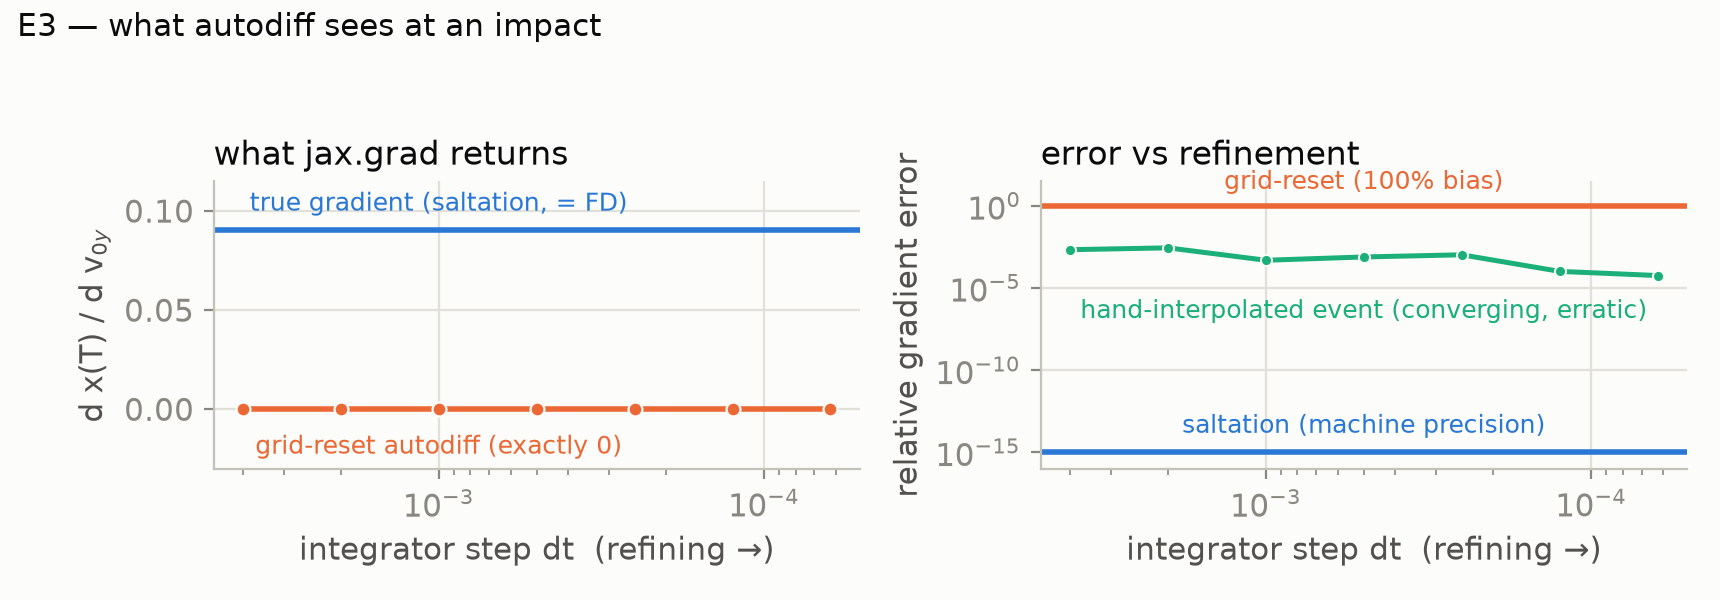
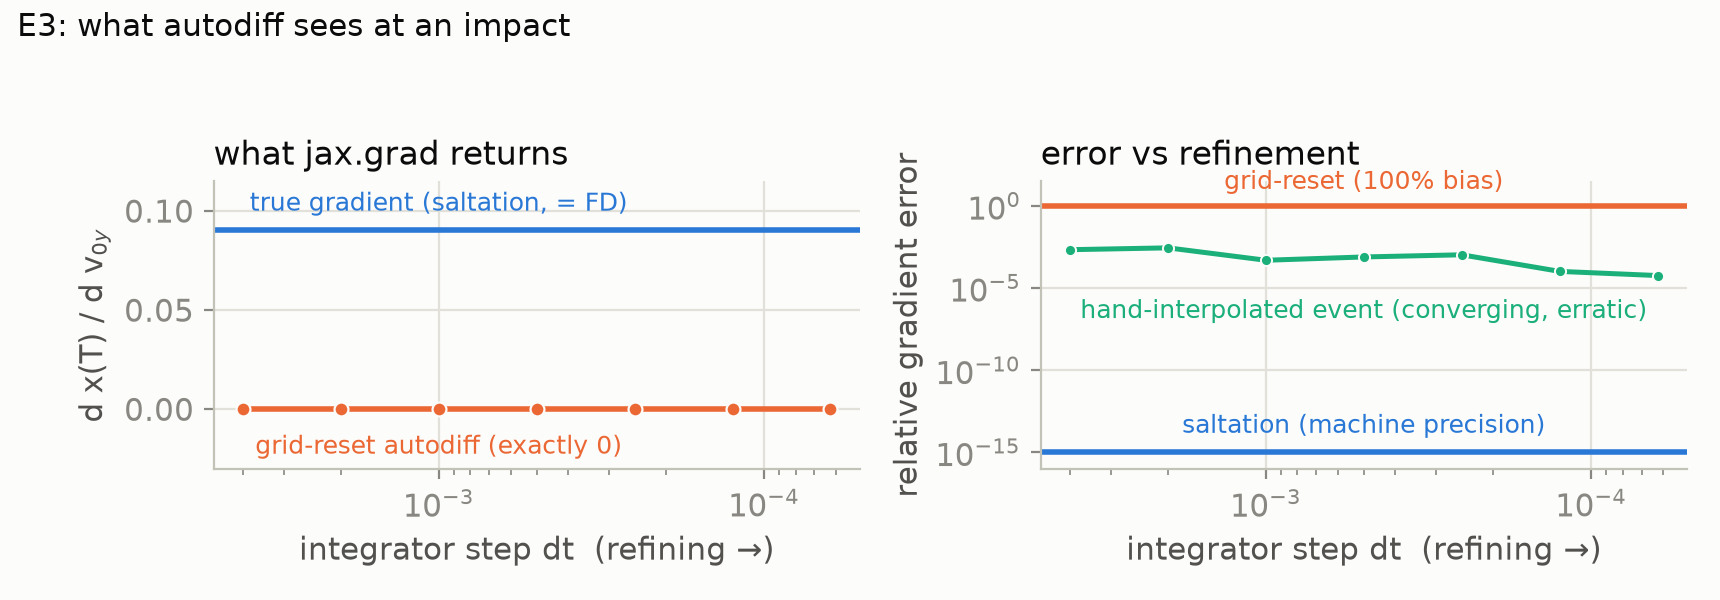
remove em dashes throughout; document the upstream fixes
Two changes, both requested after the office hour.

1. Em dashes are gone from every tracked file (56 in the two documents, 16 in
   code comments and figure titles), replaced contextually rather than by
   blind substitution: commas, colons, parentheses or sentence breaks
   depending on what each one was doing. Figure titles now read 'E5: ...'
   instead of 'E5 - ...'. All eight PNGs and both GIFs regenerated. A handful
   of stock phrasings were reworded at the same time.

2. Added the upstream work to both documents, which previously mentioned only
   the threading issue. Four PRs and three issues across tesseract-core,
   tesseract-jax and mosaic, including two silent-wrong-gradient bugs in the
   AD path: the VJP cache key collision in core (reproduced on their own
   vectoradd_jax example) and the list-index tangent mismatch in
   tesseract-jax.

Changed region(s): [[0.0308, 0.0, 0.3698, 0.06]]

diff --git a/experiments/make_figures.py b/experiments/make_figures.py
@@ -92,7 +92,7 @@ def fig_trajectory(t):
     ax.set_ylim(-0.08, 1.45)
     ax.set_xlabel("x [m]")
     ax.set_ylabel("y [m]")
-    ax.set_title("E1 — inverse design through two composed Tesseracts", loc="left")
+    ax.set_title("E1: inverse design through two composed Tesseracts", loc="left")
     ax.grid(axis="y")
     fig.tight_layout()
     fig.savefig(FIGS / "e1_trajectory.png")
@@ -107,7 +107,7 @@ def fig_convergence():
     ax.set_yscale("log")
     ax.set_xlabel("Adam iteration")
     ax.set_ylabel("miss distance [m]")
-    ax.set_title("E1 — distance to cup", loc="left")
+    ax.set_title("E1: distance to cup", loc="left")
     ax.annotate(f"{hist[-1, 1]*100:.1f} cm", (len(hist) - 1, hist[-1, 1]),
                 textcoords="offset points", xytext=(-8, 10), ha="right", color=BLUE, fontsize=10)
     fig.tight_layout()
@@ -159,7 +159,7 @@ def _fig_e3_inner():
     ax2.set_ylabel("relative gradient error")
     ax2.set_title("error vs refinement", loc="left")
 
-    fig.suptitle("E3 — what autodiff sees at an impact", x=0.01, ha="left", fontsize=11)
+    fig.suptitle("E3: what autodiff sees at an impact", x=0.01, ha="left", fontsize=11)
     fig.tight_layout(rect=(0, 0, 1, 0.93))
     fig.savefig(FIGS / "e3_bias.png")
     plt.close(fig)
@@ -200,7 +200,7 @@ def fig_e4(t):
     ax.set_ylim(-0.08, 1.45)
     ax.set_xlabel("x [m]")
     ax.set_ylabel("y [m]")
-    ax.set_title("E4 — passive sorter: one designed terrain routes two inlet speeds to two cups", loc="left")
+    ax.set_title("E4: passive sorter: one designed terrain routes two inlet speeds to two cups", loc="left")
     ax.grid(axis="y")
     fig.tight_layout()
     fig.savefig(FIGS / "e4_sorter.png")
@@ -221,7 +221,7 @@ def fig_e2b():
     )
     ax.set_xlabel("restitution e")
     ax.set_ylabel("tangential loss μ")
-    ax.set_title("E2b — NUTS posterior through the solver", loc="left")
+    ax.set_title("E2b: NUTS posterior through the solver", loc="left")
     fig.tight_layout()
     fig.savefig(FIGS / "e2b_posterior.png")
     plt.close(fig)
@@ -252,7 +252,7 @@ def fig_e6():
     ax.set_xlabel("restitution e  (trained on 0.5 and 0.8 only)")
     ax.set_ylabel("landing x [m]")
     ax.set_ylim(-0.3, 6.0)
-    ax.set_title("E6 — zero-shot: one threshold sorts the whole continuum", loc="left")
+    ax.set_title("E6: zero-shot: one threshold sorts the whole continuum", loc="left")
     fig.tight_layout()
     fig.savefig(FIGS / "e6_generalization.png")
     plt.close(fig)

diff --git a/experiments/e3_naive_vs_saltation.py b/experiments/e3_naive_vs_saltation.py
@@ -12,13 +12,13 @@ Three ways to differentiate the same bouncing-ball program:
 
 2. INTERPOLATED-EVENT (the repair): locate the crossing time by a linear root
    of the guard inside the step, reset at the interpolated state, integrate
-   the remainder. This recovers a converging gradient — and that is the
+   the remainder. This recovers a converging gradient, and that is the
    point: the fix IS event-time sensitivity machinery, hand-implemented. Its
    accuracy is tied to the interpolation order and step size, and every new
    guard/reset pair needs its own hand treatment inside the autodiff program.
 
 3. SALTATION (the Tesseract): the analytic event sensitivity, exact at any
-   dt, served through the component boundary — no event handling in the JAX
+   dt, served through the component boundary, with no event handling in the JAX
    program at all.
 
 Truth is known in closed form on this configuration (independently validated
@@ -90,7 +90,7 @@ def naive_final_x(v0y, n_steps):
 
 @partial(jax.jit, static_argnames=("n_steps",))
 def interp_final_x(v0y, n_steps):
-    """Interpolated-event repair: linear guard root inside the crossing step —
+    """Interpolated-event repair: linear guard root inside the crossing step,
     i.e. hand-implemented first-order event-time sensitivity."""
     dt = CFG["t_final"] / n_steps
 

diff --git a/experiments/e5_separator.py b/experiments/e5_separator.py
@@ -5,13 +5,13 @@ Industrial framing: bounce separators sort particles by resilience (e.g. PET
 flake vs rubber contaminant) by letting them impact a profiled surface. Here
 two particles enter identically and differ only in restitution (e = 0.5
 "rubber" vs e = 0.8 "PET"); the 24 bump amplitudes of the surface are the
-design vector. The objective — both particles land in their own bins — is only
+design vector. The objective, both particles landing in their own bins, is only
 computable through the impact events the surface itself creates.
 
 Methods under one evaluation budget. Budget accounting: a gradient call is
 charged as 2 forward evaluations. Measured wall-clock at this configuration
-(77 sensitivity columns) measures a VJP at 8.5x a forward solve — the gradients
-are forward-variational, so their cost scales with parameter count — and the
+(77 sensitivity columns) measures a VJP at 8.5x a forward solve. The gradients
+are forward-variational, so their cost scales with parameter count, and the
 writeup reports the comparison under both accountings; the qualitative result
 (gradient-free plateaus orders of magnitude short) is unchanged either way.
   - Adam on the saltation gradients (ours)

diff --git a/experiments/make_e5b_figure.py b/experiments/make_e5b_figure.py
@@ -65,13 +65,13 @@ def main():
         ax.axvline(X_MID, color=BASELINE, lw=1.0, ls=(0, (4, 3)))
         ax.set_yticks([0.5, -0.5], ["rubber", "PET"])
         ax.set_ylim(-1.1, 1.1)
-        ax.set_title(f"{label} — held-out purity {purity:.1%}", loc="left", fontsize=10)
+        ax.set_title(f"{label}: held-out purity {purity:.1%}", loc="left", fontsize=10)
         n_wrong = int(np.sum((xs < X_MID) != is_rub))
         if n_wrong:
             ax.annotate(f"{n_wrong} misclassified", (X_MID, 0.0), textcoords="offset points",
                         xytext=(8, 0), color=SECONDARY, fontsize=8)
     axes[1].set_xlabel("landing x [m]  (200 held-out particles, v sd 5 cm/s, e sd 0.03)")
-    fig.suptitle("E5b — design under uncertainty: sorting purity on held-out scatter", x=0.01, ha="left", fontsize=11)
+    fig.suptitle("E5b: design under uncertainty: sorting purity on held-out scatter", x=0.01, ha="left", fontsize=11)
     fig.tight_layout(rect=(0, 0, 1, 0.94))
     fig.savefig(FIGS / "e5b_purity.png")
     plt.close(fig)

diff --git a/tesseracts/contact_sim/tesseract_api.py b/tesseracts/contact_sim/tesseract_api.py
@@ -85,7 +85,7 @@ class OutputSchema(BaseModel):
         description="State (x, y, vx, vy) at t_end. For status != 0 this is the state at the truncating event, and its Jacobian is the total derivative including event-time dependence."
     )
     impact_x: Differentiable[Array[(MAX_EVENTS,), Float64]] = Field(
-        description="x-coordinate of each impact, zero-padded to MAX_EVENTS. Only entries [:n_events] are meaningful; padded entries are exactly 0 with exactly-zero derivative rows, so gradient checks stay coherent — always mask by n_events."
+        description="x-coordinate of each impact, zero-padded to MAX_EVENTS. Only entries [:n_events] are meaningful; padded entries are exactly 0 with exactly-zero derivative rows, so gradient checks stay coherent. Always mask by n_events."
     )
     n_events: Int32 = Field(description="Number of impacts.")
     traj: Array[(None, 5), Float64] = Field(description="Sampled (t, x, y, vx, vy) rows for visualization.")

diff --git a/experiments/e2b_bayesian.py b/experiments/e2b_bayesian.py
@@ -1,4 +1,4 @@
-"""E2b: Bayesian calibration — NUTS posterior over (e, mu) through the Tesseract.
+"""E2b: Bayesian calibration. NUTS posterior over (e, mu) through the Tesseract.
 
 NumPyro's NUTS sampler needs a JAX-differentiable log-density; the contact
 solver sits inside it as a Tesseract, its saltation VJP feeding HMC's momentum
@@ -80,7 +80,7 @@ def run(sim):
 
 def main():
     # NumPyro jits the NUTS step, and jitted JAX callbacks may run off the main
-    # thread — which deadlocks the in-process juliacall runtime. The
+    # thread, which deadlocks the in-process juliacall runtime. The
     # containerized solver keeps Julia in its own process, so HMC's callbacks
     # are plain HTTP calls and threading is a non-issue.
     out = ROOT / ".tessout"

diff --git a/experiments/e6_generalization.py b/experiments/e6_generalization.py
@@ -4,7 +4,7 @@ The E5 surface was optimized for exactly two restitution values (0.5, 0.8).
 Here we ask what it does to materials it never saw: a dense sweep of
 restitution over [0.35, 0.95] plus an inlet-velocity jitter grid. The designed
 geometry turns out to encode a *classifier*: a single threshold in e separates
-the continuum into bin-A-like and bin-B-like landings — behavior the optimizer
+the continuum into bin-A-like and bin-B-like landings, behavior the optimizer
 was never asked for.
 
 Metric: landing x at t_end (settled or final state) against the bin midpoint

diff --git a/scripts/validate_reference.py b/scripts/validate_reference.py
@@ -1,7 +1,7 @@
 """Cross-implementation reference check for contact-sim.
 
 Re-implements the SPEC (not the Julia code) with scipy's adaptive RK45 and its
-own event localization, then compares on the bumpy-terrain and drag configs —
+own event localization, then compares on the bumpy-terrain and drag configs,
 exactly the sector (sloped contact frame, drag) the flat-terrain closed-form
 oracle cannot reach. The solver's ANALYTIC Jacobian is compared against central
 finite differences through THIS independent implementation.

diff --git a/experiments/make_e5_figure.py b/experiments/make_e5_figure.py
@@ -91,7 +91,7 @@ def main():
     ax2.set_ylabel("best objective")
     ax2.set_title("24-dim head-to-head", loc="left", fontsize=12)
 
-    fig.suptitle("E5 — bounce separator: same inlet, sorted by restitution", x=0.01, ha="left", fontsize=13)
+    fig.suptitle("E5: bounce separator: same inlet, sorted by restitution", x=0.01, ha="left", fontsize=13)
     fig.tight_layout(rect=(0, 0, 1, 0.90))
     fig.savefig(FIGS / "e5_separator.png")
     plt.close(fig)

diff --git a/tesseracts/score_target/tesseract_api.py b/tesseracts/score_target/tesseract_api.py
@@ -27,7 +27,7 @@ class InputSchema(BaseModel):
 
 class OutputSchema(BaseModel):
     loss: Differentiable[Float64] = Field(
-        description="w1 (x - x*)^2 + w2 (y - y*)^2 + w3 |v|^2 — land in the cup, gently."
+        description="w1 (x - x*)^2 + w2 (y - y*)^2 + w3 |v|^2. Land in the cup, gently."
     )
     miss_distance: Differentiable[Float64] = Field(description="Euclidean distance from (x, y) to the cup.")
 

diff --git a/experiments/make_e5_animation.py b/experiments/make_e5_animation.py
@@ -103,7 +103,7 @@ def main():
     ax.set_ylim(-0.16, 1.3)
     ax.set_xlabel("x [m]")
     ax.set_ylabel("y [m]")
-    ax.set_title("E5 — the surface learns to sort: one terrain, two materials, same inlet", loc="left")
+    ax.set_title("E5: the surface learns to sort: one terrain, two materials, same inlet", loc="left")
     fig.tight_layout()
 
     hold = 12

diff --git a/experiments/make_animation.py b/experiments/make_animation.py
@@ -74,7 +74,7 @@ def main():
     ax.set_ylim(-0.08, 1.45)
     ax.set_xlabel("x [m]")
     ax.set_ylabel("y [m]")
-    ax.set_title("E1 — inverse design by gradient descent through two Tesseracts", loc="left")
+    ax.set_title("E1: inverse design by gradient descent through two Tesseracts", loc="left")
 
     fig.tight_layout()
 
